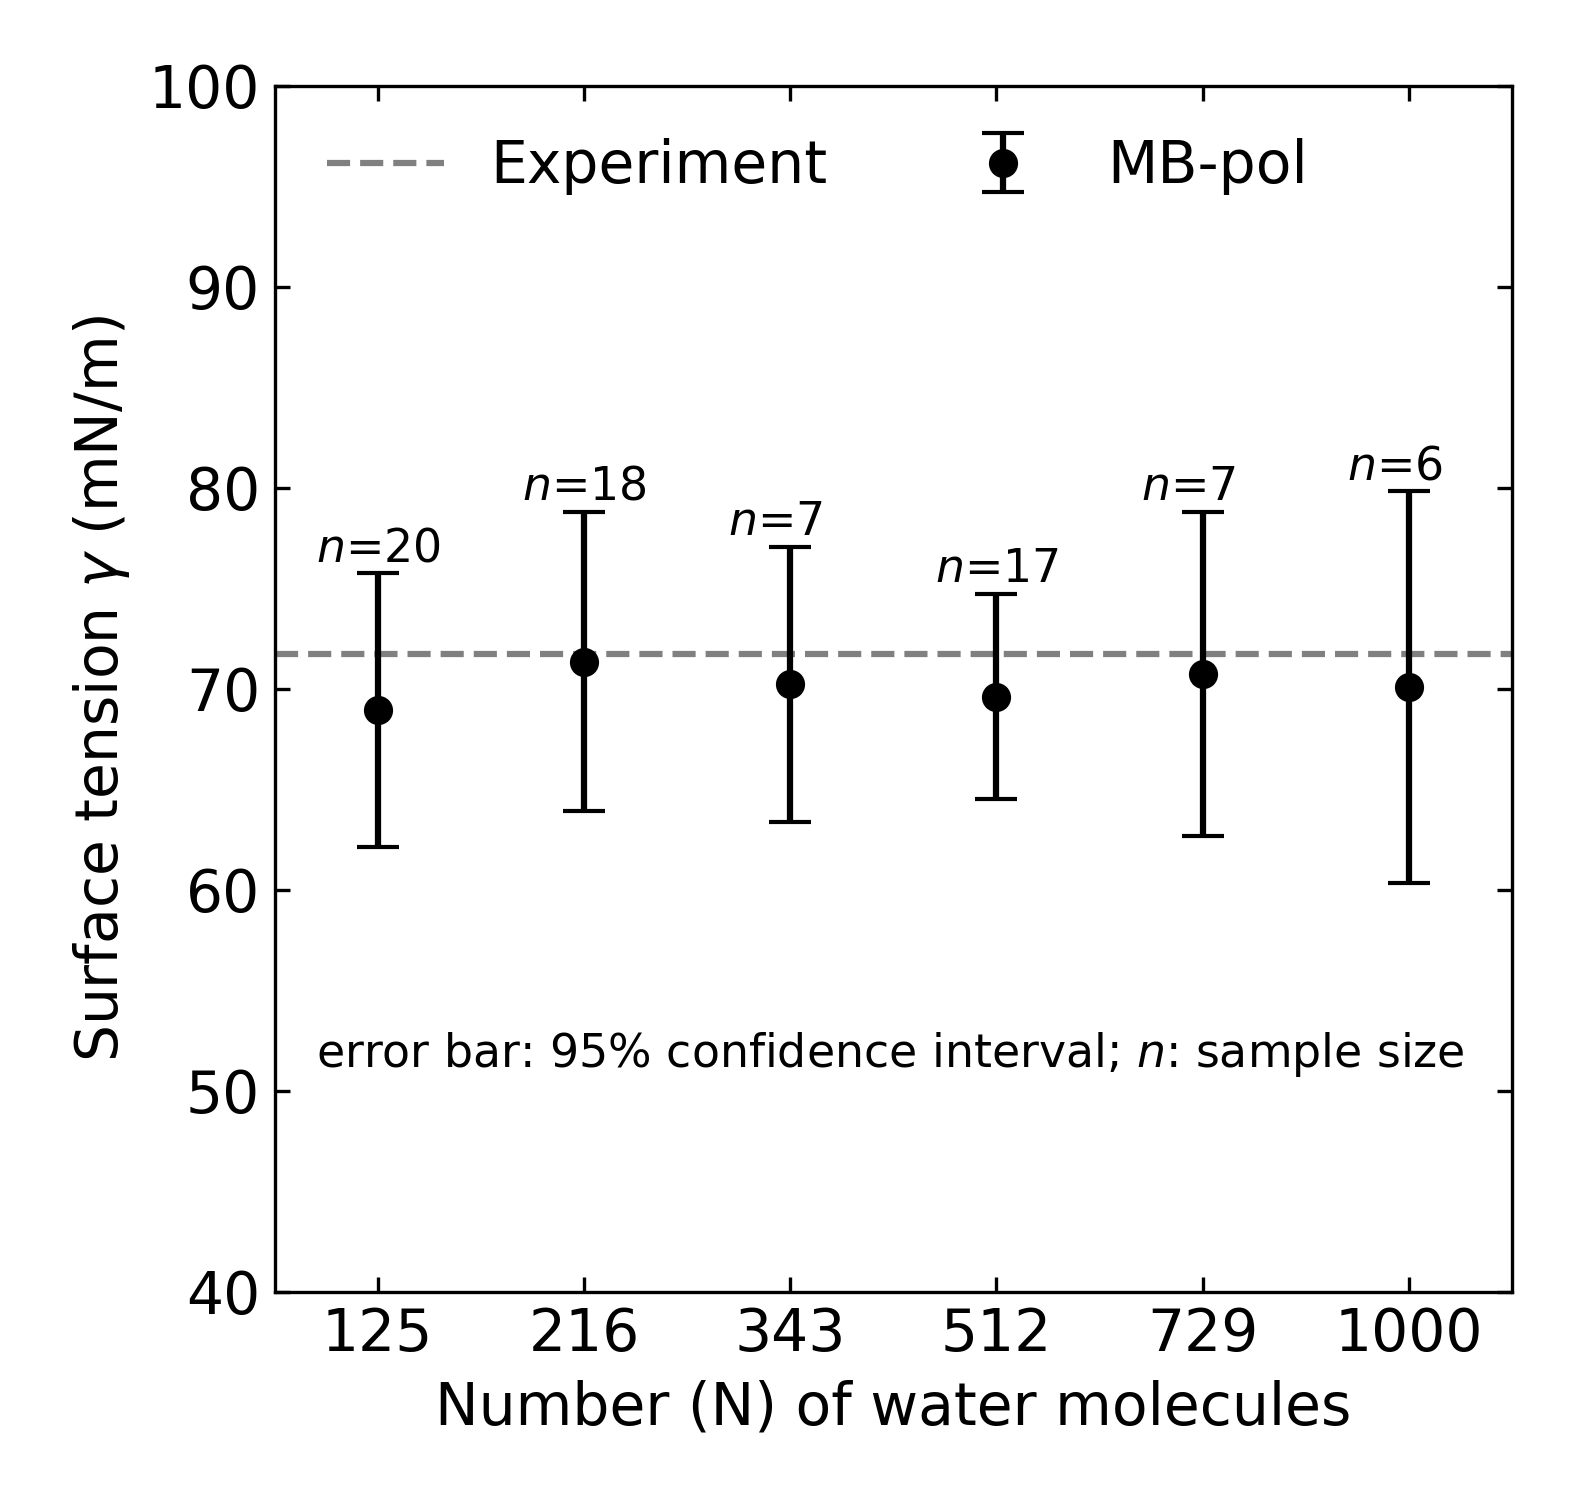
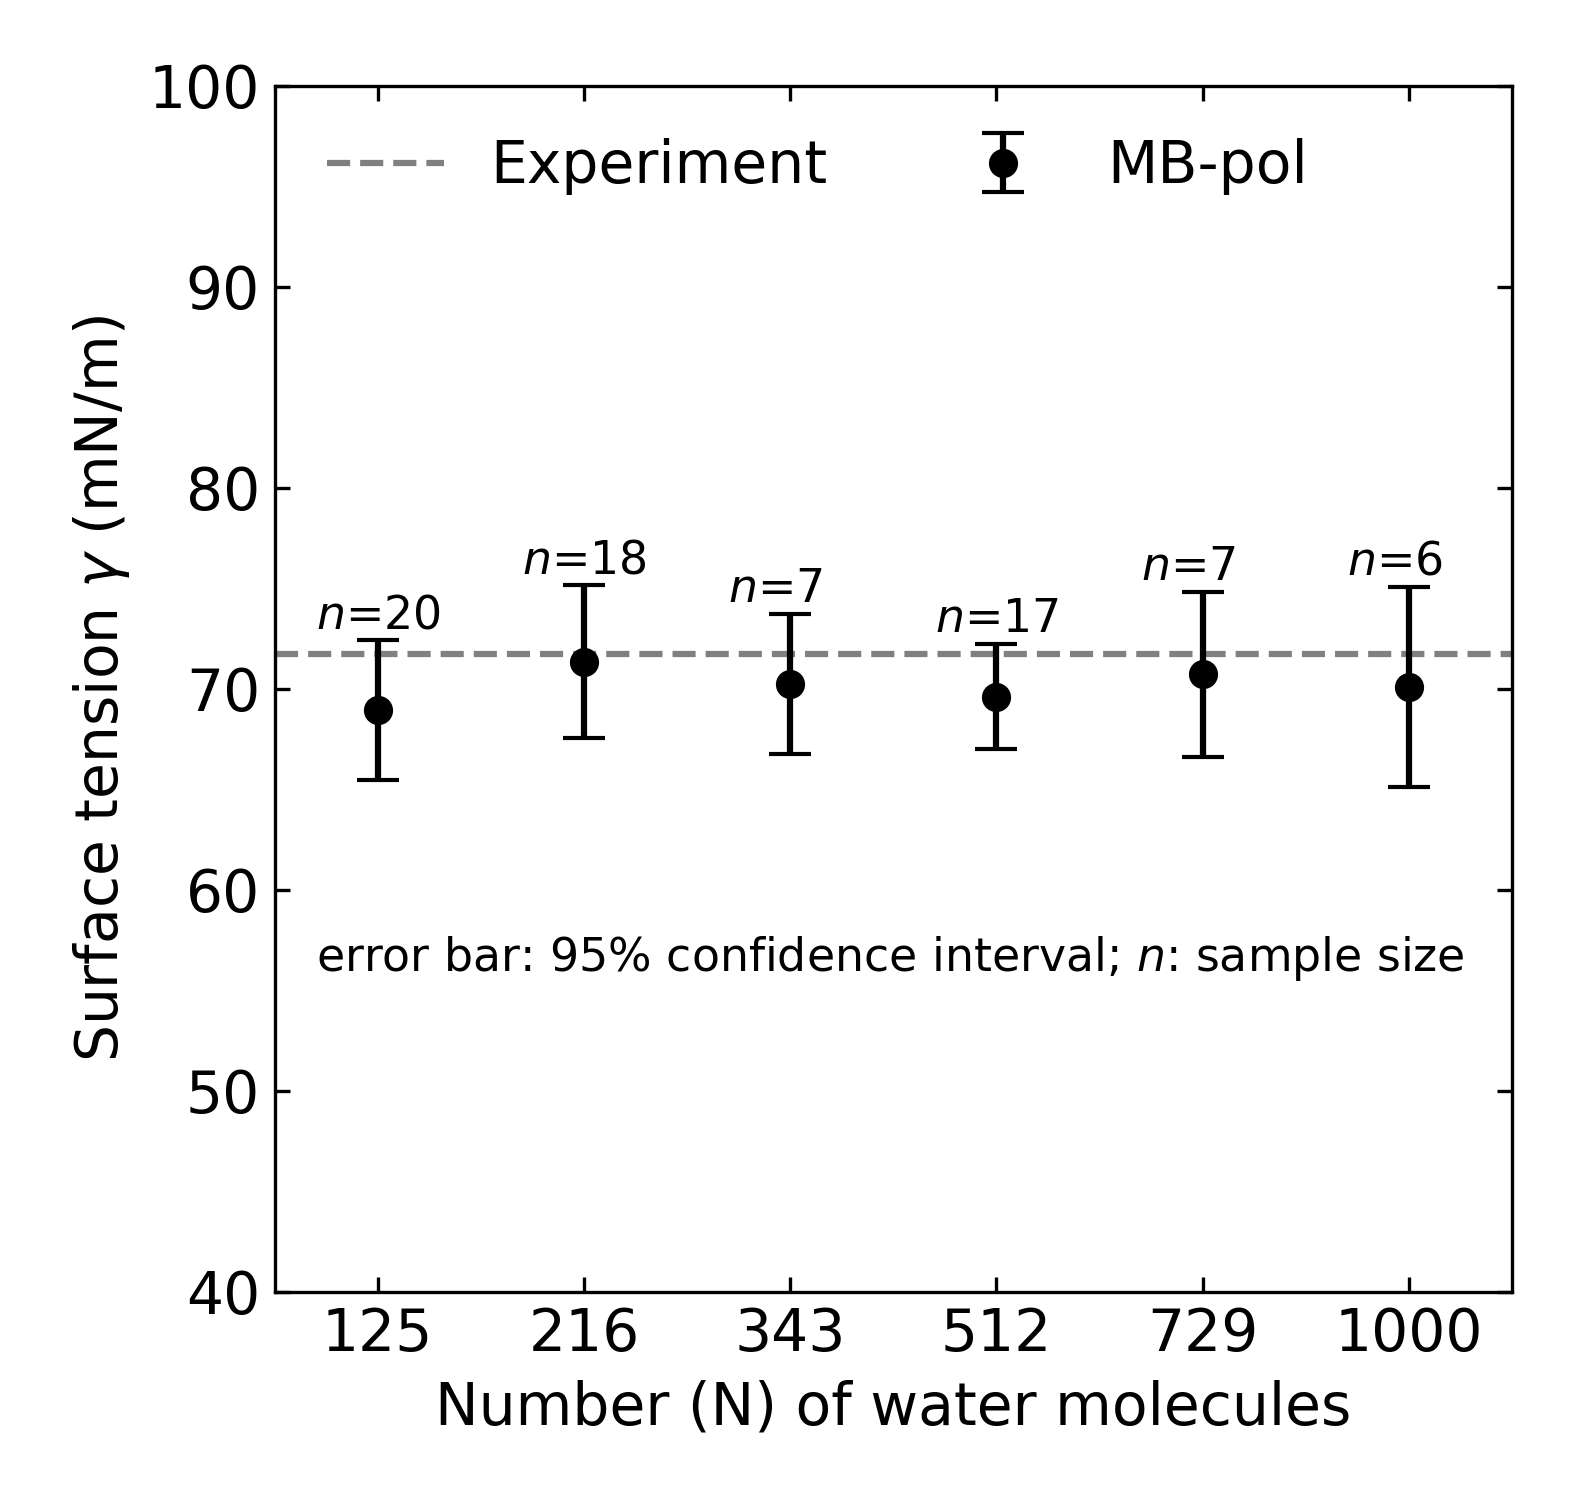
fix CI95 (#131)

diff --git a/md_code/plotSurfaceTensions.py b/md_code/plotSurfaceTensions.py
@@ -85,14 +85,13 @@ plt.savefig('ST_Sliding_Accumulated_{}.pdf'.format(simType))
 meanValues = np.zeros(numMolecules.shape)
 stdValues = np.zeros(numMolecules.shape)
 stdErrors = np.zeros(numMolecules.shape)
-confidence95 = 1.96  # Z-value for 95% confidence interval
 for idx, num in enumerate(numMolecules):
     sliding_filename = "output/ST_Sliding_{}_{}.txt".format(num, simType)
     sliding_data = np.loadtxt(sliding_filename)
     time_sliding, st_values_sliding = sliding_data[:, 0], sliding_data[:, 1]
     meanValues[idx] = np.mean(st_values_sliding)
     stdValues[idx] = np.std(st_values_sliding)
-    stdErrors[idx] = confidence95 * (stdValues[idx] / np.sqrt(len(st_values_sliding)))
+    stdErrors[idx] = stdValues[idx] / np.sqrt(len(st_values_sliding))
 
 confidence_interval = 2 * stdErrors
 cube_roots = np.cbrt(numMolecules)
